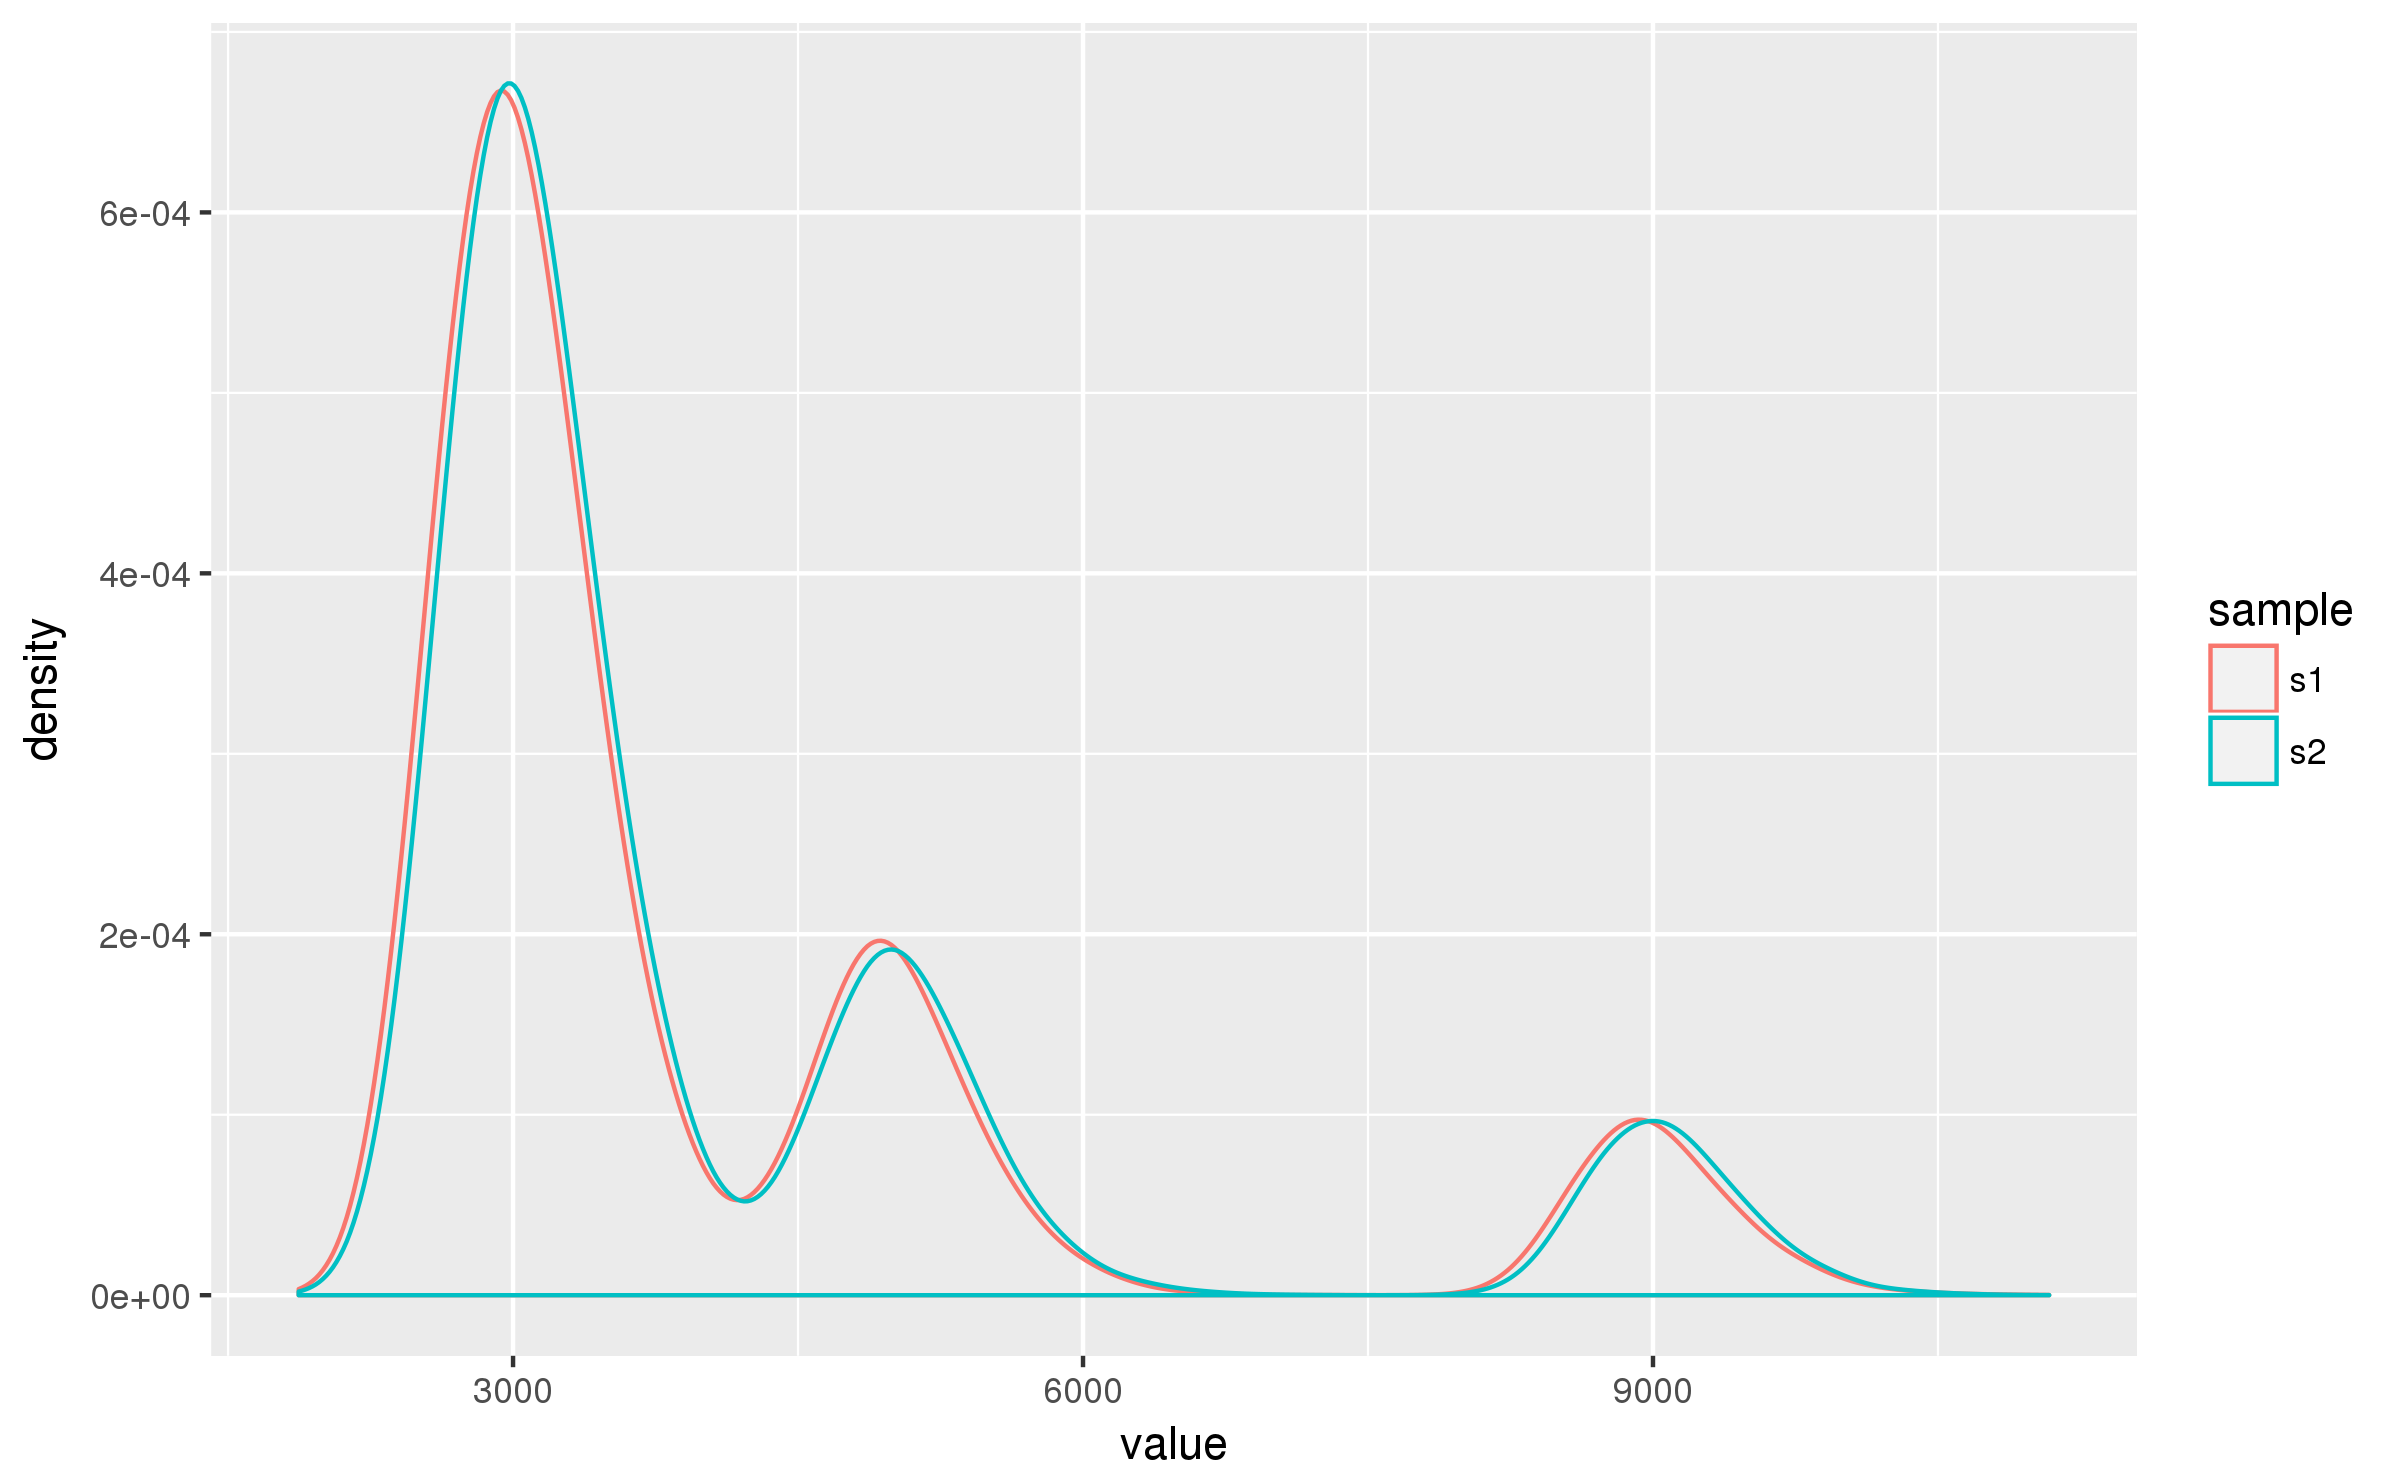
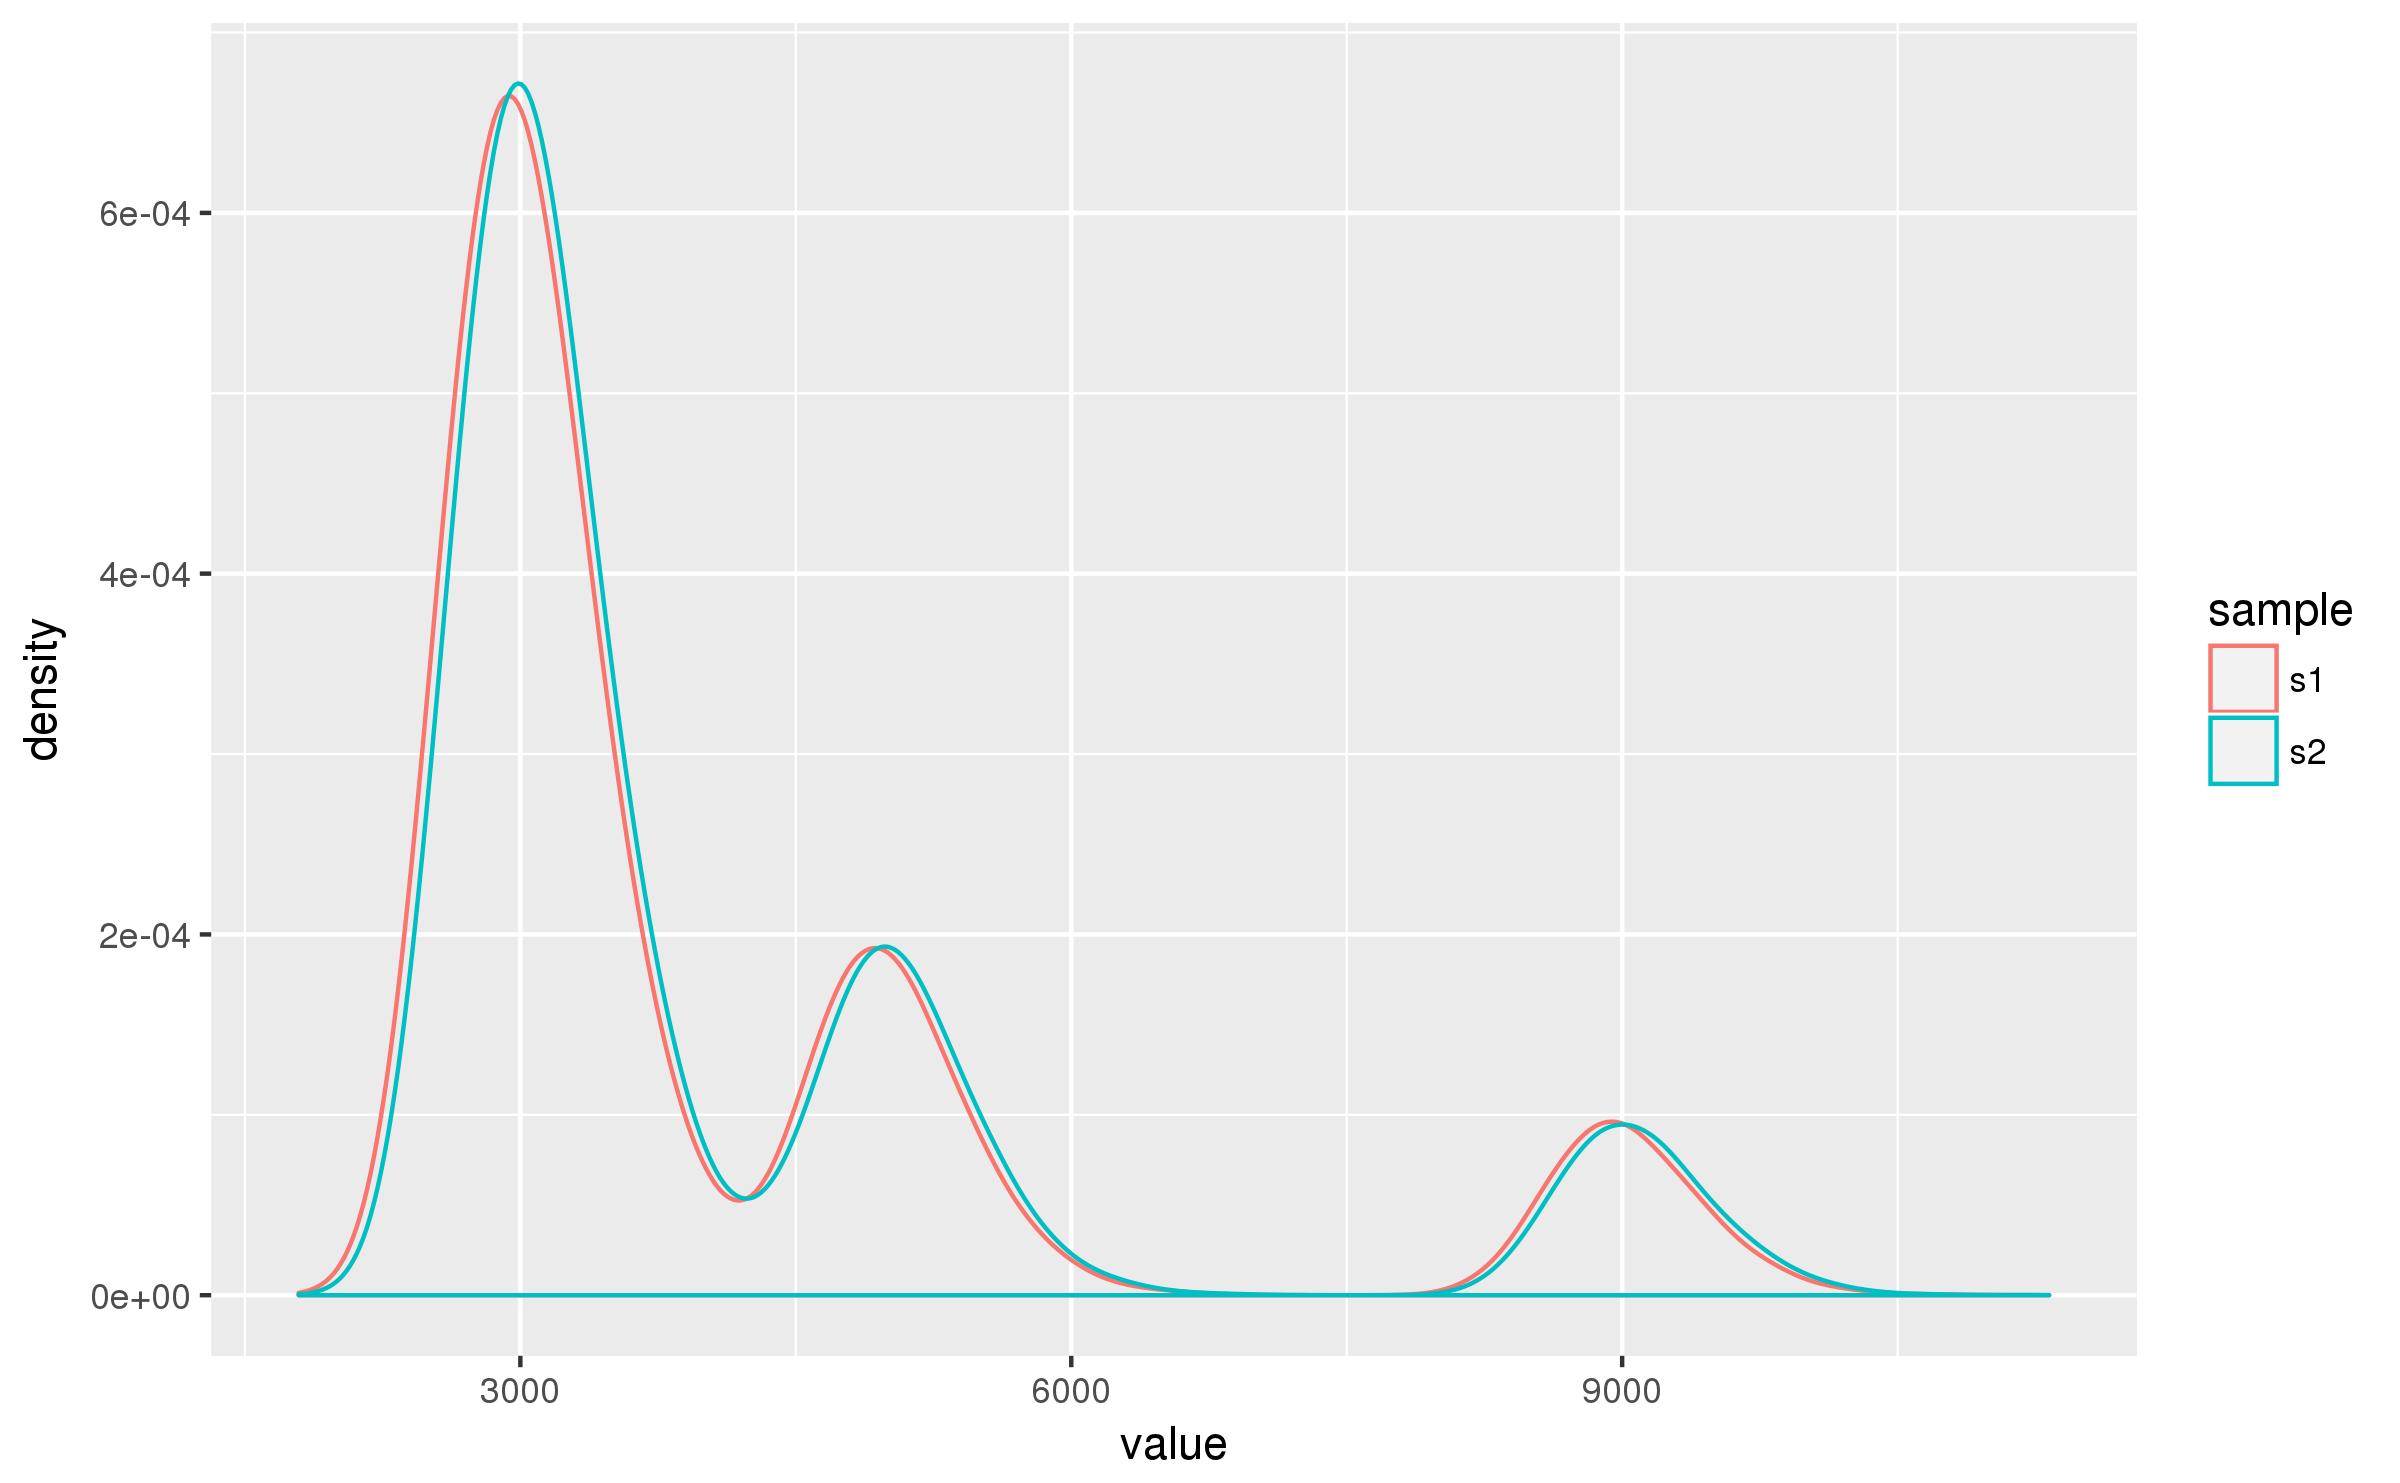
Another revision of the appendix.

diff --git a/_posts/2017-01-19-on-benchmarking-part-5.md b/_posts/2017-01-19-on-benchmarking-part-5.md
@@ -358,6 +358,92 @@ print(mixed.sd)
 [1] 1912
 ```
 
+### Power analysis for the Mixed Distributions
+
+With the estimated standard deviation out of the way, I can compute
+the required number of samples to achieve a certain power and
+significance level.  I am picking 0.95 and 0.01, respectively:
+
+``` r
+mixed.pw <- power.t.test(delta=50, sd=mixed.sd, sig.level=0.01, power=0.95)
+print(mixed.pw)
+
+     Two-sample t test power calculation 
+
+              n = 52100.88
+          delta = 50
+             sd = 1912
+      sig.level = 0.01
+          power = 0.95
+    alternative = two.sided
+
+NOTE: n is number in *each* group
+```
+
+I need to remember to apply the 15% overhead for non-parametric
+statistics, and I prefer to round up to the nearest multiple of $$1000$$:
+
+``` r
+nsamples <- ceiling(1.15 * mixed.pw$n / 1000) * 1000
+print(nsamples)
+[1] 60000
+```
+
+I would like to test the Mann-Whitney test with, so I create two
+samples from the distribution:
+
+``` r
+mixed.s1 <- 1000 + rmixed(nsamples)
+mixed.s2 <- 1050 + rmixed(nsamples)
+
+df <- melt(data.frame(s1=mixed.s1, s2=mixed.s2))
+colnames(df) <- c('sample', 'value')
+ggplot(data=df, aes(x=value, color=sample)) + geom_density()
+```
+
+![](/public/{{page.id}}/mixed.s1.s2.svg
+"Two samples of the same Mixed Distribution")
+
+And apply the test to them:
+
+``` r
+mixed.w <- wilcox.test(x=mixed.s1, y=mixed.s2, conf.int=TRUE)
+print(mixed.w)
+	Wilcoxon rank sum test with continuity correction
+
+data:  mixed.s1 and mixed.s2
+W = 1728600000, p-value < 2.2e-16
+alternative hypothesis: true location shift is not equal to 0
+95 percent confidence interval:
+ -60.18539 -43.18903
+sample estimates:
+difference in location 
+             -51.68857 
+```
+
+That provides the answer I was expecting, the estimate for the
+difference in the location parameter ($$51.7$$)
+is fairly close to the true value of $$50.0$$.
+
+### Median, Means and Location Parameters
+
+The reader might wonder why do all this complicated calculations with
+the Mann-Whitney test, why not use the difference of the means or
+medians:
+
+``` r
+mean(mixed.s1) - mean(mixed.s2)
+[1] -52.78187
+median(mixed.s1) - median(mixed.s2)
+[1] -48.35018
+```
+
+Those are not too bad as estimates either.
+I guess I could just provide the easy answer: because you do not get a
+p-value that way!
+
+
+
 
 ## Notes
 
